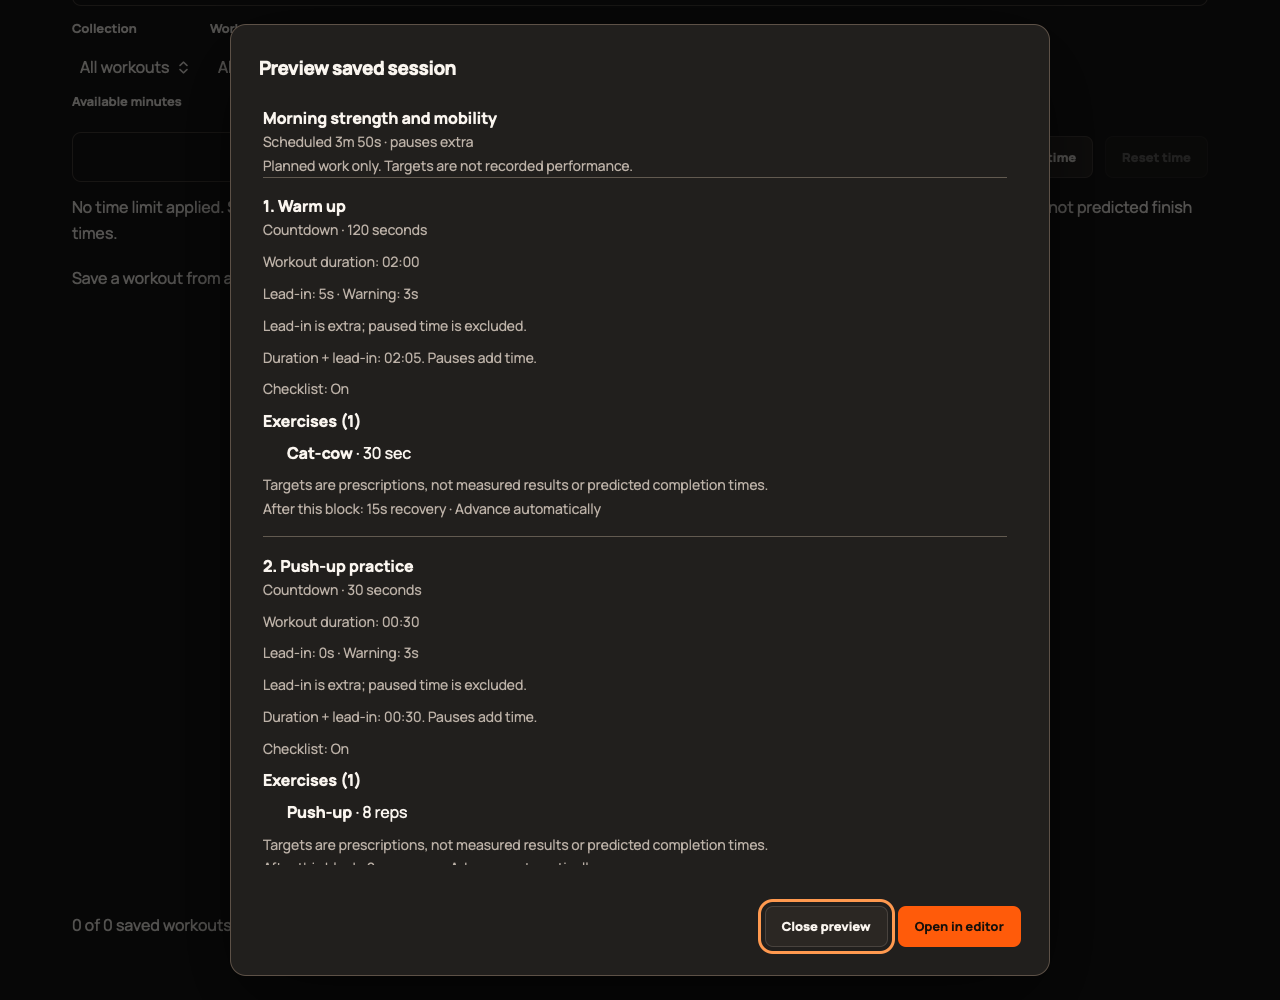
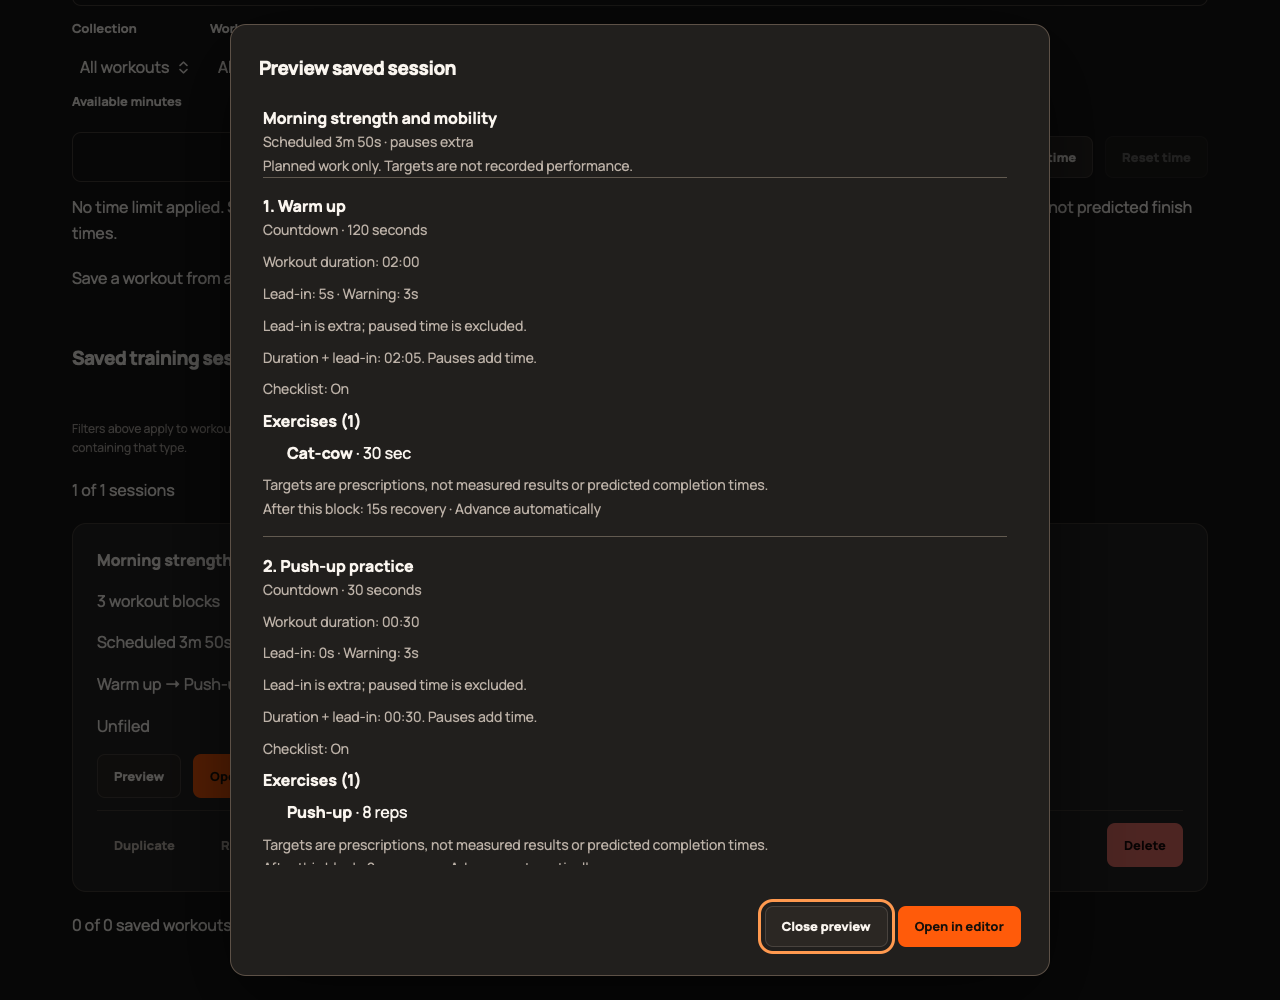
fix: preserve session drafts and finish library usability review

diff --git a/tests/e2e/release-230.spec.ts b/tests/e2e/release-230.spec.ts
@@ -208,3 +208,83 @@ test('twenty-block preview covers every mode with reachable actions and honest u
   await page.keyboard.press('Escape');
   await expect(trigger).toBeFocused();
 });
+
+test('library sections align and management toolbar wraps without wasting desktop rows', async ({
+  page,
+}) => {
+  await seed(page);
+  const library = await page.locator('.template-library').boundingBox();
+  const sessions = await page
+    .getByRole('region', { name: 'Saved training sessions', exact: true })
+    .boundingBox();
+  expect(Math.abs(sessions!.x - library!.x)).toBeLessThanOrEqual(2);
+  expect(sessions!.width).toBeGreaterThanOrEqual(library!.width - 2);
+  const first = await page
+    .getByRole('button', { name: 'Import workout', exact: true })
+    .boundingBox();
+  const second = await page
+    .getByRole('button', { name: 'Manage collections', exact: true })
+    .boundingBox();
+  expect(Math.abs(first!.y - second!.y)).toBeLessThanOrEqual(2);
+  expect(second!.x - first!.x - first!.width).toBeGreaterThanOrEqual(10);
+});
+
+for (const entry of ['Preview', 'Open'])
+  test(`${entry} protects an edited empty session draft`, async ({ page }) => {
+    await seed(page);
+    await page.getByRole('button', { name: 'Open Attempt a', exact: true }).click();
+    await page.getByLabel('Session name', { exact: true }).fill('Unsaved empty plan');
+    await page.getByRole('button', { name: 'Remove block 1', exact: true }).click();
+    await page.getByRole('banner').getByRole('button', { name: 'Home', exact: true }).click();
+    await page.getByRole('button', { name: `${entry} Attempt a`, exact: true }).click();
+    const dialog = page.getByRole('dialog', { name: 'Preview saved session', exact: true });
+    await dialog.getByRole('button', { name: 'Open in editor', exact: true }).click();
+    await expect(
+      dialog.getByRole('button', { name: 'Replace current draft', exact: true }),
+    ).toBeVisible();
+    await dialog.getByRole('button', { name: 'Close preview', exact: true }).click();
+    await page
+      .getByRole('button', { name: /^(Build a session|Continue editing session)$/ })
+      .click();
+    await expect(page.getByLabel('Session name', { exact: true })).toHaveValue(
+      'Unsaved empty plan',
+    );
+  });
+test('failed collection dependency does not imply zero matching sessions', async ({ page }) => {
+  await seed(page);
+  await page.getByLabel('Collection', { exact: true }).selectOption('unfiled');
+  const region = page.getByRole('region', { name: 'Saved training sessions', exact: true });
+  await expect(region).toContainText('1 of 1 sessions');
+  await page.evaluate(() => {
+    localStorage.setItem('nextround.workout-templates.v1', 'invalid');
+    window.dispatchEvent(new Event('visibilitychange'));
+  });
+  await expect(
+    region.getByRole('button', { name: 'Retry collections', exact: true }),
+  ).toBeVisible();
+  await expect(region).not.toContainText('No sessions match your filters');
+  await expect(region).not.toContainText('0 of 1 sessions');
+  await page.evaluate(() => localStorage.removeItem('nextround.workout-templates.v1'));
+  await region.getByRole('button', { name: 'Retry collections', exact: true }).click();
+  await expect(region).toContainText('1 of 1 sessions');
+});
+
+test('preview cancellation preserves an in-progress first block', async ({ page }) => {
+  await seed(page);
+  await page.getByRole('button', { name: 'Build a session', exact: true }).click();
+  await page.getByRole('button', { name: 'Add Countdown block', exact: true }).click();
+  await page.getByRole('banner').getByRole('button', { name: 'Home', exact: true }).click();
+  await page.getByRole('button', { name: 'Preview Attempt a', exact: true }).click();
+  const dialog = page.getByRole('dialog', { name: 'Preview saved session', exact: true });
+  await dialog.getByRole('button', { name: 'Open in editor', exact: true }).click();
+  await expect(
+    dialog.getByRole('button', { name: 'Replace current draft', exact: true }),
+  ).toBeVisible();
+  await dialog.getByRole('button', { name: 'Close preview', exact: true }).click();
+  await expect(
+    page.getByRole('complementary', { name: 'Session block editor', exact: true }),
+  ).toContainText('Editing a Countdown block');
+  await expect(
+    page.getByRole('button', { name: 'Continue editing session', exact: true }),
+  ).toBeVisible();
+});

diff --git a/apps/nextround/src/features/templates/index.tsx b/apps/nextround/src/features/templates/index.tsx
@@ -388,39 +388,48 @@ export function TemplateLibrary({
         </h2>
         <p>Keep your favourites ready for the next round.</p>
       </div>
-      <Button
-        variant="secondary"
-        disabled={busy || query.isPending || query.isError}
-        onClick={(event) => {
-          origin.current = event.currentTarget;
-          clearFilterFeedback();
-          setImporting(true);
-        }}
-      >
-        Import workout
-      </Button>
-      <Button
-        variant="secondary"
-        disabled={busy || query.isPending || query.isError}
-        onClick={(event) => {
-          origin.current = event.currentTarget;
-          clearFilterFeedback();
-          setCollectionDialog('manage');
-        }}
-      >
-        Manage collections
-      </Button>
-      <Button
-        variant="secondary"
-        disabled={busy || query.isPending || query.isError}
-        onClick={(event) => {
-          origin.current = event.currentTarget;
-          clearFilterFeedback();
-          setImportingCollection(true);
-        }}
-      >
-        Import collection
-      </Button>
+      <div className="library-toolbar">
+        <Button
+          variant="secondary"
+          disabled={busy || query.isPending || query.isError}
+          onClick={(event) => {
+            origin.current = event.currentTarget;
+            clearFilterFeedback();
+            setImporting(true);
+          }}
+        >
+          Import workout
+        </Button>
+        <Button
+          variant="secondary"
+          disabled={busy || query.isPending || query.isError}
+          onClick={(event) => {
+            origin.current = event.currentTarget;
+            clearFilterFeedback();
+            setCollectionDialog('manage');
+          }}
+        >
+          Manage collections
+        </Button>
+        <Button
+          variant="secondary"
+          disabled={busy || query.isPending || query.isError}
+          onClick={(event) => {
+            origin.current = event.currentTarget;
+            clearFilterFeedback();
+            setImportingCollection(true);
+          }}
+        >
+          Import collection
+        </Button>
+        <Button
+          variant="secondary"
+          disabled={busy || query.isPending}
+          onClick={() => void refresh()}
+        >
+          Refresh saved workouts
+        </Button>
+      </div>
       {collection !== 'all' && collection !== 'unfiled' && (
         <>
           <Button
@@ -500,9 +509,6 @@ export function TemplateLibrary({
         </Button>
       )}
       {!action && error && <p role="alert">{error}</p>}
-      <Button variant="secondary" disabled={busy || query.isPending} onClick={() => void refresh()}>
-        Refresh saved workouts
-      </Button>
       {query.isPending && <p role="status">Loading saved workouts…</p>}
       {query.isError ? (
         <div role="alert">

diff --git a/tests/e2e/release-1150.spec.ts b/tests/e2e/release-1150.spec.ts
@@ -27,7 +27,7 @@ test('duplicate preserves source and filters, reports hidden copy and survives r
   await dialog.getByLabel('Workout name').fill('My variant');
   await dialog.getByRole('button', { name: 'Create copy' }).click();
   await expect(dialog).toHaveCount(0);
-  await expect(page.getByRole('status')).toContainText('hidden');
+  await expect(page.getByRole('status').filter({ hasText: 'hidden' })).toBeVisible();
   await expect(page.getByRole('checkbox', { name: 'Favourites only' })).toBeChecked();
   const doc = await page.evaluate((key) => JSON.parse(localStorage.getItem(key) ?? 'null'), key);
   expect(doc.templates[0]).toEqual(original);
@@ -51,7 +51,9 @@ test('library filters survive navigation and reset on restart', async ({ page })
 });
 test('failed refresh clears old success feedback', async ({ page }) => {
   await page.getByRole('button', { name: 'Refresh saved workouts', exact: true }).click();
-  await expect(page.getByRole('status')).toContainText('Saved workouts refreshed.');
+  await expect(
+    page.getByRole('status').filter({ hasText: 'Saved workouts refreshed.' }),
+  ).toBeVisible();
   await page.evaluate((key) => localStorage.setItem(key, '{broken'), key);
   await page.getByRole('button', { name: 'Refresh saved workouts', exact: true }).click();
   await expect(page.getByRole('alert')).toContainText('preserved');
@@ -99,10 +101,10 @@ test('show copied workout clears filters and obsolete hidden-copy feedback', asy
   await page.getByRole('checkbox', { name: 'Favourites only' }).check();
   await page.getByRole('button', { name: 'Duplicate Alpha', exact: true }).click();
   await page.getByRole('button', { name: 'Create copy', exact: true }).click();
-  await expect(page.getByRole('status')).toContainText('hidden');
+  await expect(page.getByRole('status').filter({ hasText: 'hidden' })).toBeVisible();
   await page.getByRole('button', { name: 'Show copied workout' }).click();
   await expect(page.getByRole('heading', { name: 'Copy of Alpha', exact: true })).toBeVisible();
-  await expect(page.getByRole('status')).not.toContainText('hidden');
+  await expect(page.getByRole('status').filter({ hasText: 'hidden' })).toHaveCount(0);
 });
 test('duplication retries a failed write and rejects blank names at minimum window size', async ({
   page,

diff --git a/apps/nextround/src/features/sessions/library.tsx b/apps/nextround/src/features/sessions/library.tsx
@@ -8,7 +8,7 @@ import { availableTransferName } from '@/features/templates/portable-collection'
 import { readTemplates } from '@/features/templates/repository';
 import { normalizeSearch } from '@/lib/search';
 import { useWorkout } from '@/state/workout';
-import { openSession, useSessionEditor } from './editor';
+import { hasSessionDraft, openSession } from './editor';
 import { JsonPicker, saveJson } from './files';
 import { parseSession, sessionSeconds, sessionTimeLabel, type TrainingSession } from './model';
 import { encodeSession, independentSession, parseSessionFile } from './portable';
@@ -168,7 +168,7 @@ export function SessionLibrary() {
           )}
         </div>
       )}
-      {!query.isPending && !query.error && !sessions.length && (
+      {fresh && (filters.collection === 'all' || collectionsReady) && !sessions.length && (
         <p>
           {all.length
             ? 'No sessions match your filters.'
@@ -216,7 +216,7 @@ export function SessionLibrary() {
                       const current = await readSavedSession(s.id, s);
                       if (useTraining.getState().run || useWorkout.getState().snapshot)
                         throw new Error('Finish the active workout before opening a session.');
-                      if (useSessionEditor.getState().draft.blocks.length) setPreviewId(s.id);
+                      if (hasSessionDraft()) setPreviewId(s.id);
                       else {
                         openSession(current);
                         void navigate({ to: '/sessions' });
@@ -314,7 +314,7 @@ export function SessionLibrary() {
                   Export session
                 </Button>
                 <Button
-                  variant="ghost"
+                  variant="destructive"
                   disabled={busy || !fresh}
                   onClick={(event) => {
                     remember(event);

diff --git a/apps/nextround/src/features/home/home.tsx b/apps/nextround/src/features/home/home.tsx
@@ -1,7 +1,7 @@
 import { useNavigate } from '@tanstack/react-router';
 import { ArrowUpRight } from 'lucide-react';
 import { Button } from '@/components/ui/button';
-import { openSession, useSessionEditor } from '@/features/sessions/editor';
+import { hasSessionDraft, openSession, useSessionEditor } from '@/features/sessions/editor';
 import { useTraining } from '@/features/sessions/state';
 import { TemplateLibrary } from '@/features/templates';
 import { useTemplateSources } from '@/state/template-source';
@@ -11,7 +11,7 @@ import artwork from '../../../../../assets/brand/nextround-splash.png';
 export function Home() {
   const navigate = useNavigate();
   const training = useTraining();
-  const draft = useSessionEditor((s) => s.draft);
+  const hasDraft = useSessionEditor(hasSessionDraft);
   return (
     <main className="home page">
       <section className="home-intro">
@@ -29,11 +29,11 @@ export function Home() {
         <Button
           disabled={!training.initialized || !!training.run}
           onClick={() => {
-            if (!draft.blocks.length) openSession();
+            if (!hasDraft) openSession();
             void navigate({ to: '/sessions' });
           }}
         >
-          {draft.blocks.length ? 'Continue editing session' : 'Build a session'}
+          {hasDraft ? 'Continue editing session' : 'Build a session'}
         </Button>
         <span>Combine warm-up, workout and cooldown.</span>
         {training.run && (

diff --git a/tests/e2e/release-1230.spec.ts b/tests/e2e/release-1230.spec.ts
@@ -118,7 +118,7 @@ test('duplicate collection names can be corrected without closing or discarding 
   await expect(page.getByLabel('Collection name', { exact: true })).toBeFocused();
   await page.getByLabel('Collection name', { exact: true }).fill('Fresh training');
   await page.getByRole('button', { name: 'Create collection', exact: true }).click();
-  await expect(page.getByRole('status')).toContainText('created');
+  await expect(page.getByRole('status').filter({ hasText: 'created' })).toBeVisible();
 });
 
 test('stale collection edits require explicit reload and retain drafts until then', async ({
@@ -157,7 +157,7 @@ test('storage failure preserves collection draft for retry', async ({ page }) =>
   await expect(page.getByRole('alert')).toContainText('Storage unavailable');
   await expect(page.getByLabel('Collection name', { exact: true })).toHaveValue('Retry this');
   await page.getByRole('button', { name: 'Create collection', exact: true }).click();
-  await expect(page.getByRole('status')).toContainText('created');
+  await expect(page.getByRole('status').filter({ hasText: 'created' })).toBeVisible();
 });
 
 test('collection preview scrolls with fixed actions at a narrow size', async ({

diff --git a/tests/e2e/release-1220.spec.ts b/tests/e2e/release-1220.spec.ts
@@ -27,7 +27,7 @@ test('saved search finds exercise snapshots and collection membership survives f
   await page.getByRole('button', { name: 'Manage collections', exact: true }).click();
   await page.getByLabel('Collection name', { exact: true }).fill('Quick sessions');
   await page.getByRole('button', { name: 'Create collection', exact: true }).click();
-  await expect(page.getByRole('status')).toContainText('Quick sessions');
+  await expect(page.getByRole('status').filter({ hasText: 'Quick sessions' })).toBeVisible();
   await page.getByRole('button', { name: 'Done', exact: true }).click();
   await page.getByRole('button', { name: 'Collections for Morning', exact: true }).click();
   await page.getByLabel('Quick sessions', { exact: true }).check();
@@ -119,5 +119,5 @@ test('many collections scroll independently of their fixed modal actions', async
   });
   await dialog.screenshot({ path: testInfo.outputPath('workout-collections.png') });
   await save.click();
-  await expect(page.getByRole('status')).toContainText('Collections saved');
+  await expect(page.getByRole('status').filter({ hasText: 'Collections saved' })).toBeVisible();
 });

diff --git a/apps/nextround/src/features/sessions/preview.tsx b/apps/nextround/src/features/sessions/preview.tsx
@@ -3,7 +3,7 @@ import { Dialog } from '@/components/dialog';
 import { Button } from '@/components/ui/button';
 import { WorkoutDetails } from '@/features/templates/workout-details';
 import { useWorkout } from '@/state/workout';
-import { useSessionEditor } from './editor';
+import { hasSessionDraft } from './editor';
 import { sessionTimeLabel, type TrainingSession } from './model';
 import { readTraining } from './repository';
 import { useTraining } from './state';
@@ -77,7 +77,7 @@ export function SessionPreview({
       }
       if (useTraining.getState().run || useWorkout.getState().snapshot)
         throw new Error('Finish the active workout before opening a session.');
-      if (useSessionEditor.getState().draft.blocks.length && !confirm) {
+      if (hasSessionDraft() && !confirm) {
         setConfirm(true);
         return;
       }

diff --git a/tests/e2e/release-1200.spec.ts b/tests/e2e/release-1200.spec.ts
@@ -32,7 +32,7 @@ test('renaming a filtered workout explains where it went and offers recovery', a
   await page.getByRole('button', { name: 'Rename Alpha', exact: true }).click();
   await page.getByLabel('Workout name').fill('Beta');
   await page.getByRole('button', { name: 'Save name', exact: true }).click();
-  await expect(page.getByRole('status')).toContainText('hidden');
+  await expect(page.getByRole('status').filter({ hasText: 'hidden' })).toBeVisible();
   await page.getByRole('button', { name: 'Show renamed workout' }).click();
   await expect(page.getByRole('heading', { name: 'Beta', exact: true })).toBeVisible();
   await expect(page.getByLabel('Search saved workouts')).toBeFocused();

diff --git a/apps/nextround/src/features/sessions/editor.tsx b/apps/nextround/src/features/sessions/editor.tsx
@@ -35,6 +35,15 @@ export const useSessionEditor = create<{
   source: TrainingSession | null;
   undo: TrainingSession | null;
 }>(() => ({ draft: fresh(), editing: null, source: null, undo: null }));
+export function hasSessionDraft(state = useSessionEditor.getState()) {
+  return !!(
+    state.draft.blocks.length ||
+    state.draft.name !== 'My training session' ||
+    state.editing ||
+    state.source ||
+    state.undo
+  );
+}
 export function openSession(session?: TrainingSession) {
   useTrainingOwnership.setState({ editing: false });
   useSessionEditor.setState({

diff --git a/tests/e2e/release-1120.spec.ts b/tests/e2e/release-1120.spec.ts
@@ -70,7 +70,7 @@ test('stale rename preserves typed text and requires review of the new name', as
   await dialog.getByRole('button', { name: 'Save name' }).click();
   await expect(page.getByRole('heading', { name: 'My proposal', exact: true })).toBeVisible();
   await expect(page.getByText(/Current saved name:/)).toHaveCount(0);
-  await expect(page.getByRole('status')).toContainText('Workout renamed.');
+  await expect(page.getByRole('status').filter({ hasText: 'Workout renamed.' })).toBeVisible();
 });
 
 for (const name of ['Alpha', 'Beta', 'Gamma']) {

diff --git a/apps/nextround/src/styles.css b/apps/nextround/src/styles.css
@@ -1814,3 +1814,10 @@ fieldset.library-secondary-actions {
   border-top: 1px solid #45403a;
   padding-top: 12px;
 }
+
+.library-toolbar {
+  display: flex;
+  flex-wrap: wrap;
+  gap: 12px;
+  align-items: center;
+}
